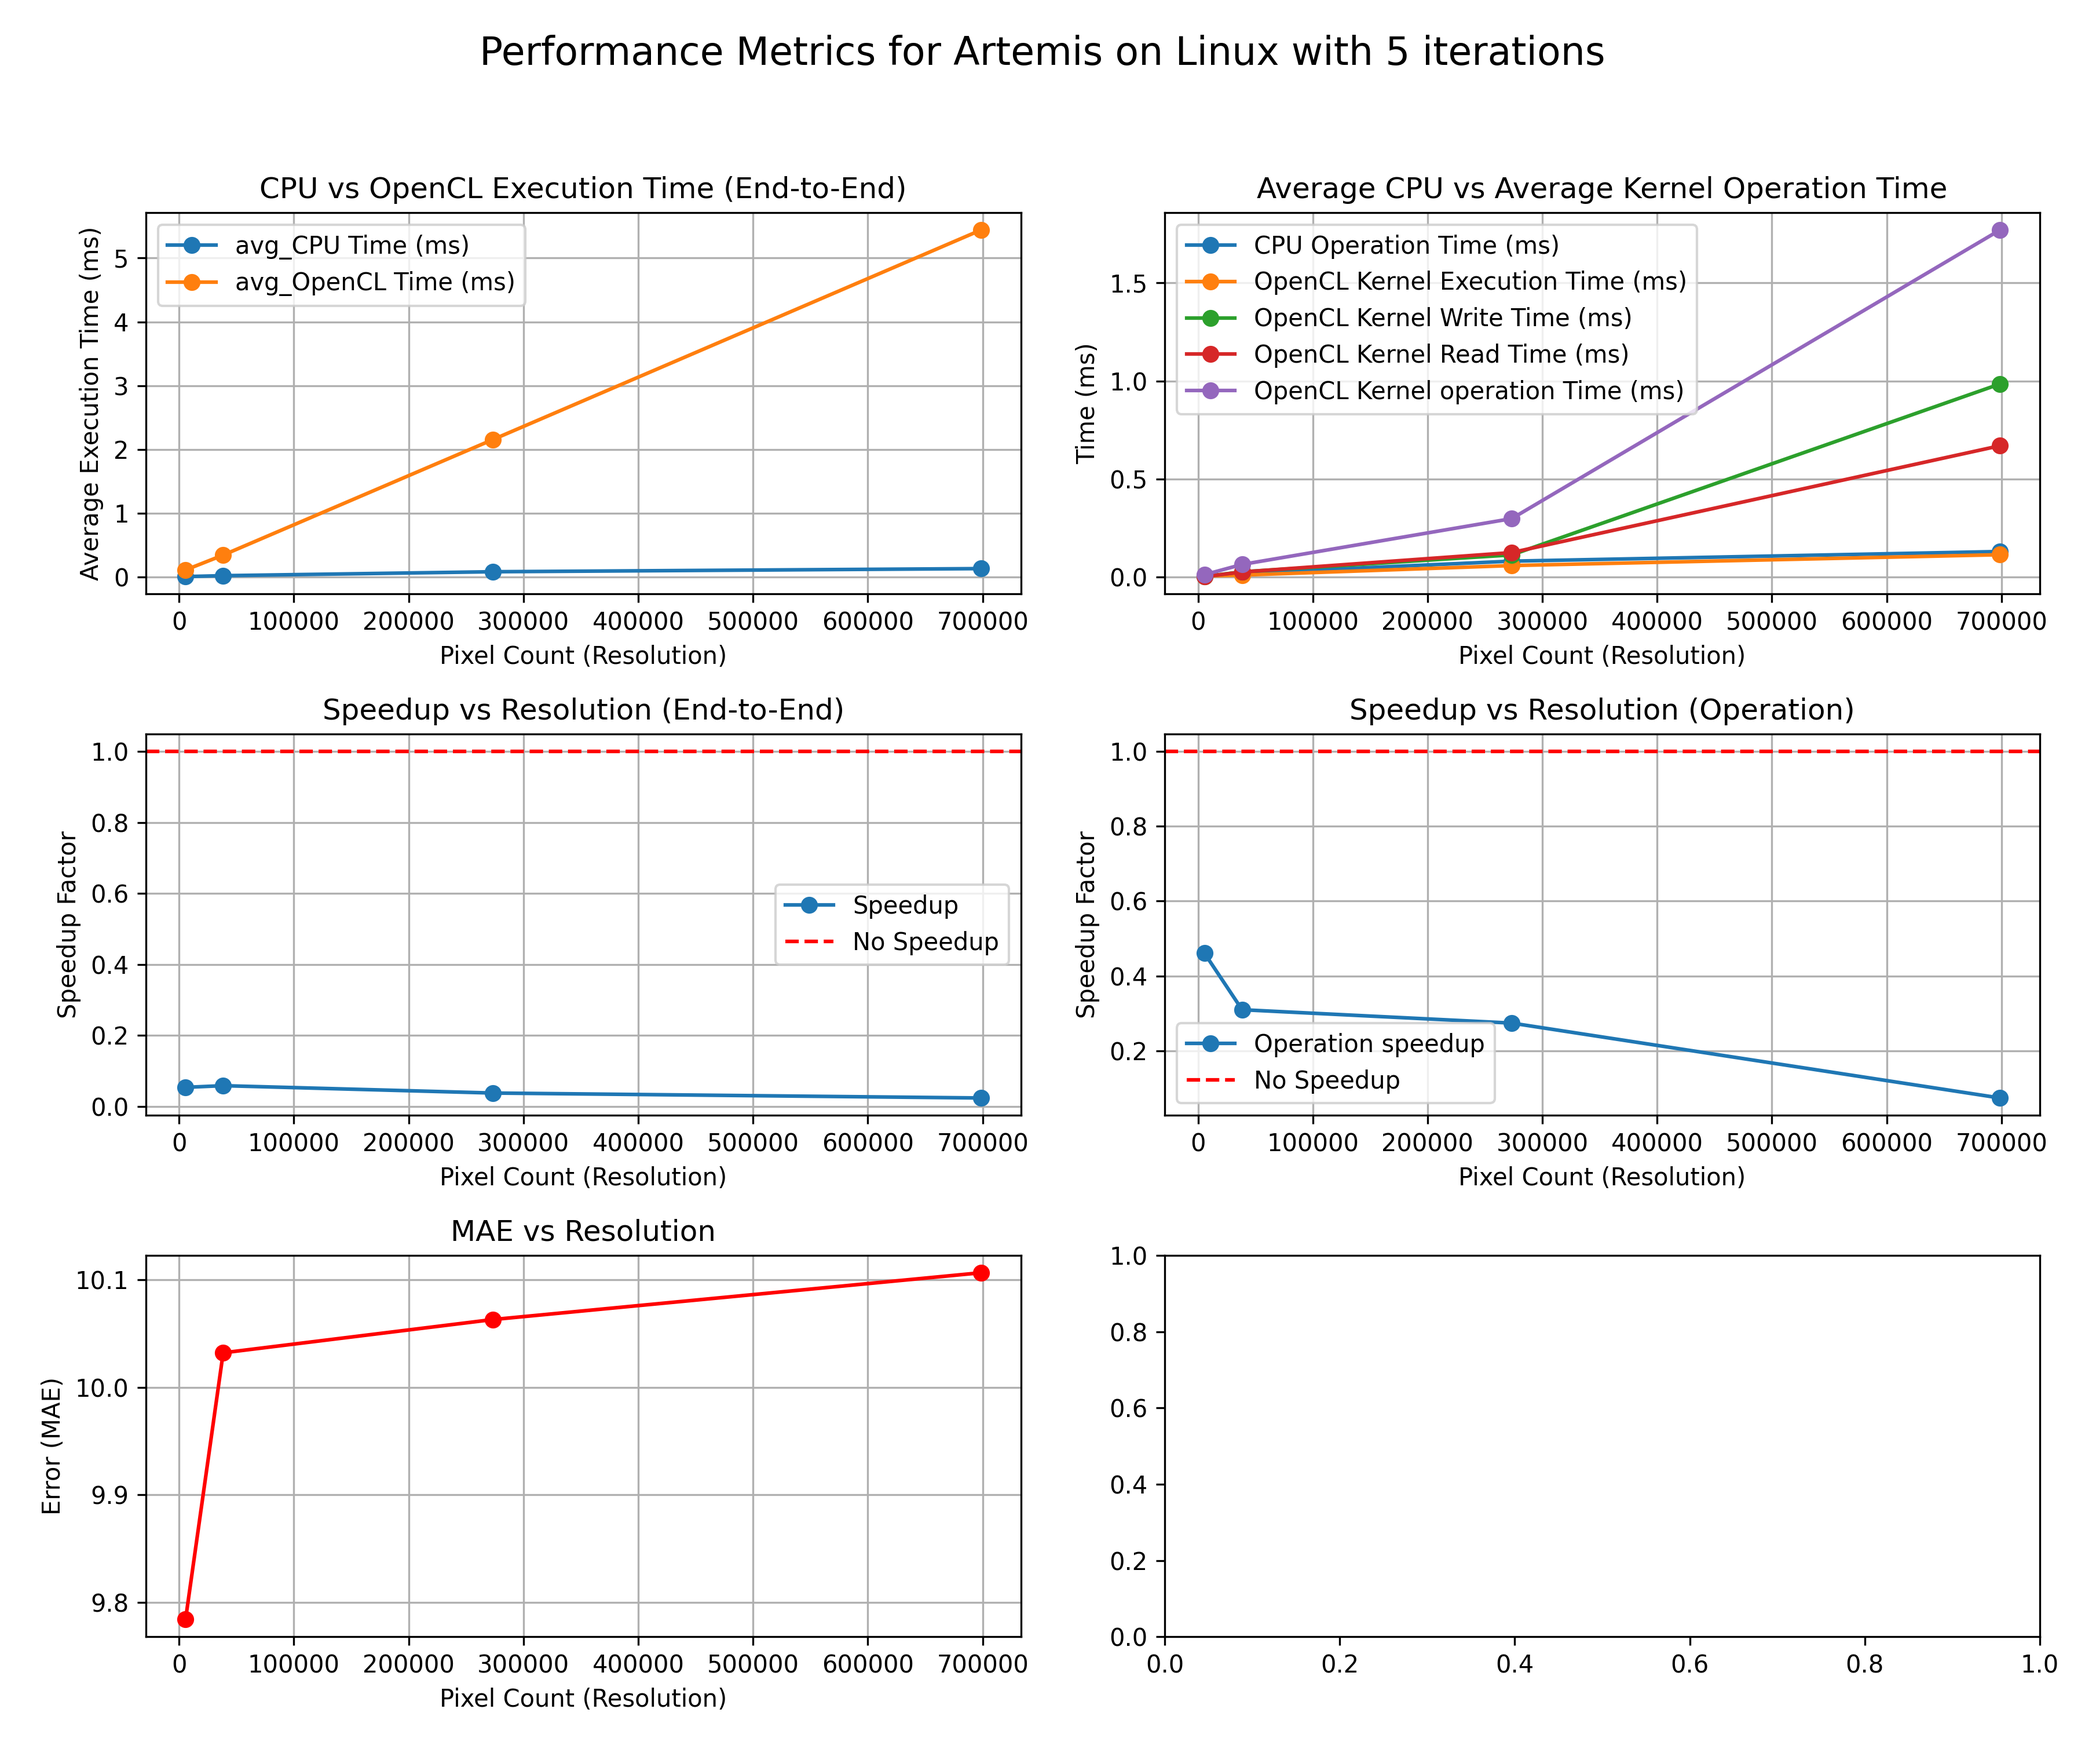
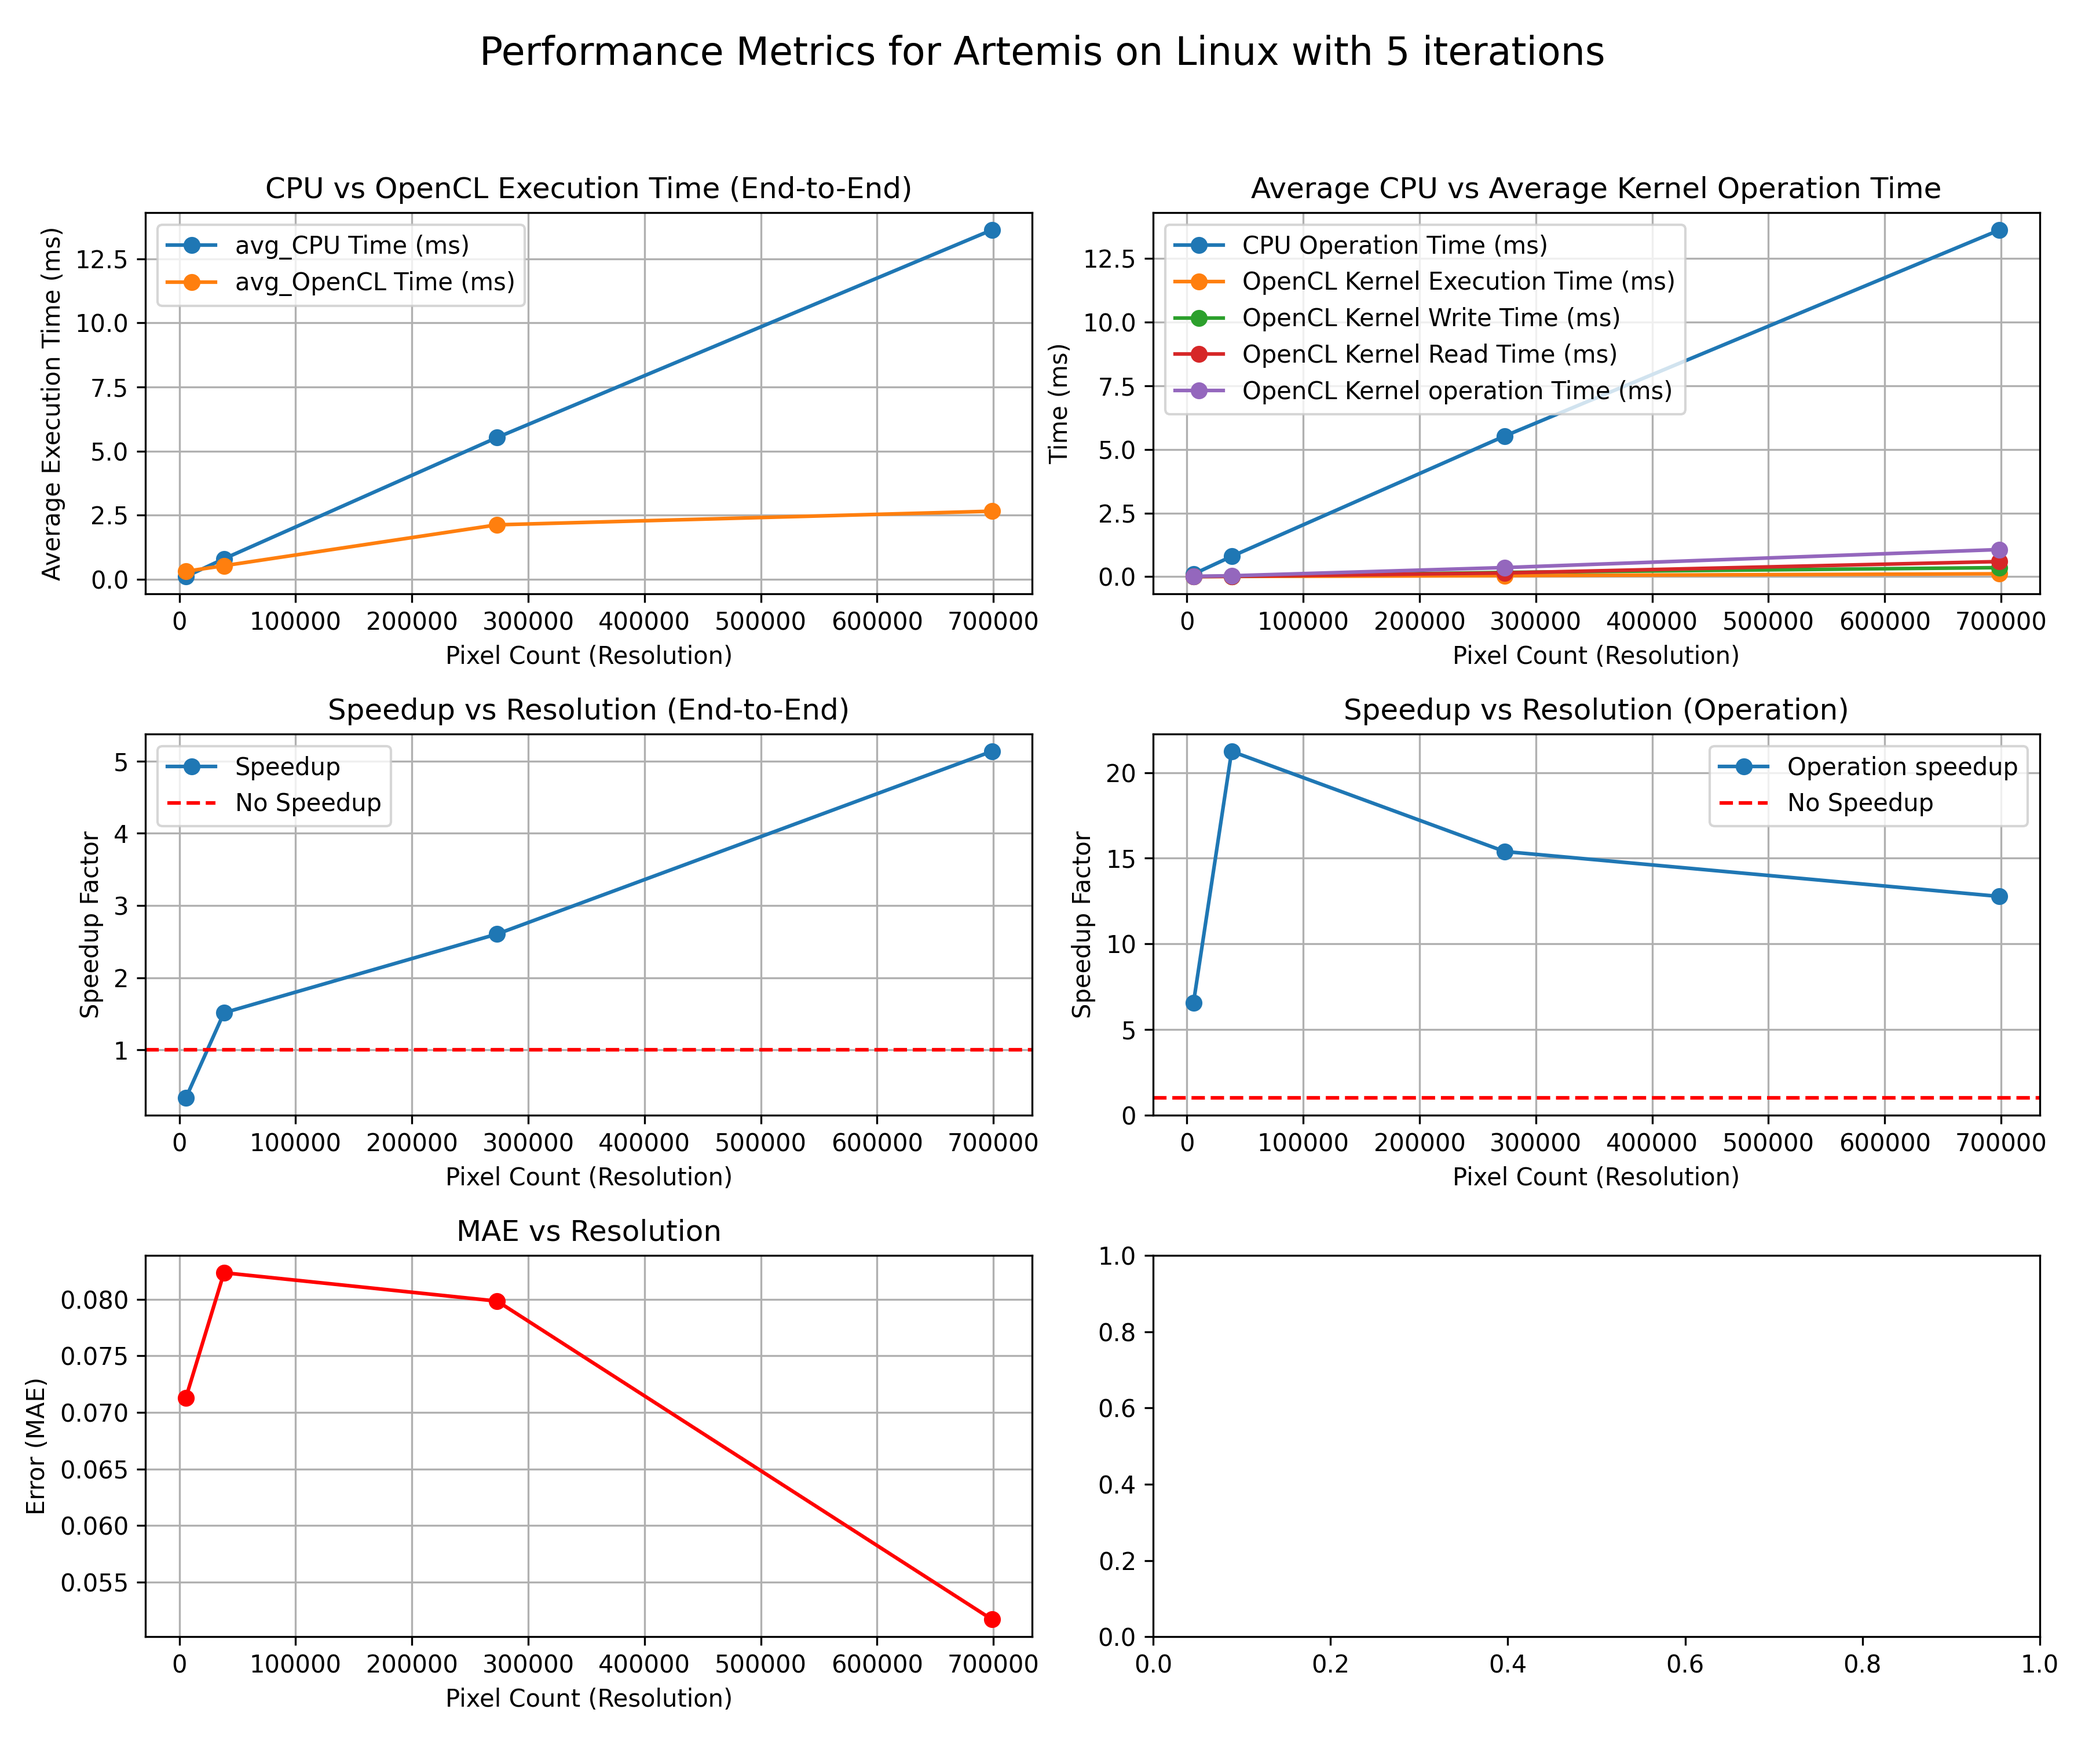
performed test on Linux

diff --git a/src/Grayscale/results/visualisation.py b/src/Grayscale/results/visualisation.py
@@ -4,7 +4,7 @@ import matplotlib.pyplot as plt
 
 # 0 - Linux
 # 1 - Windows
-USING_OS = 1
+USING_OS = 0
 SHOW_FIGURES = False
 SHOW_TERMINAL_OUTPUT = False
 SAVE_DATAFRAME = True
